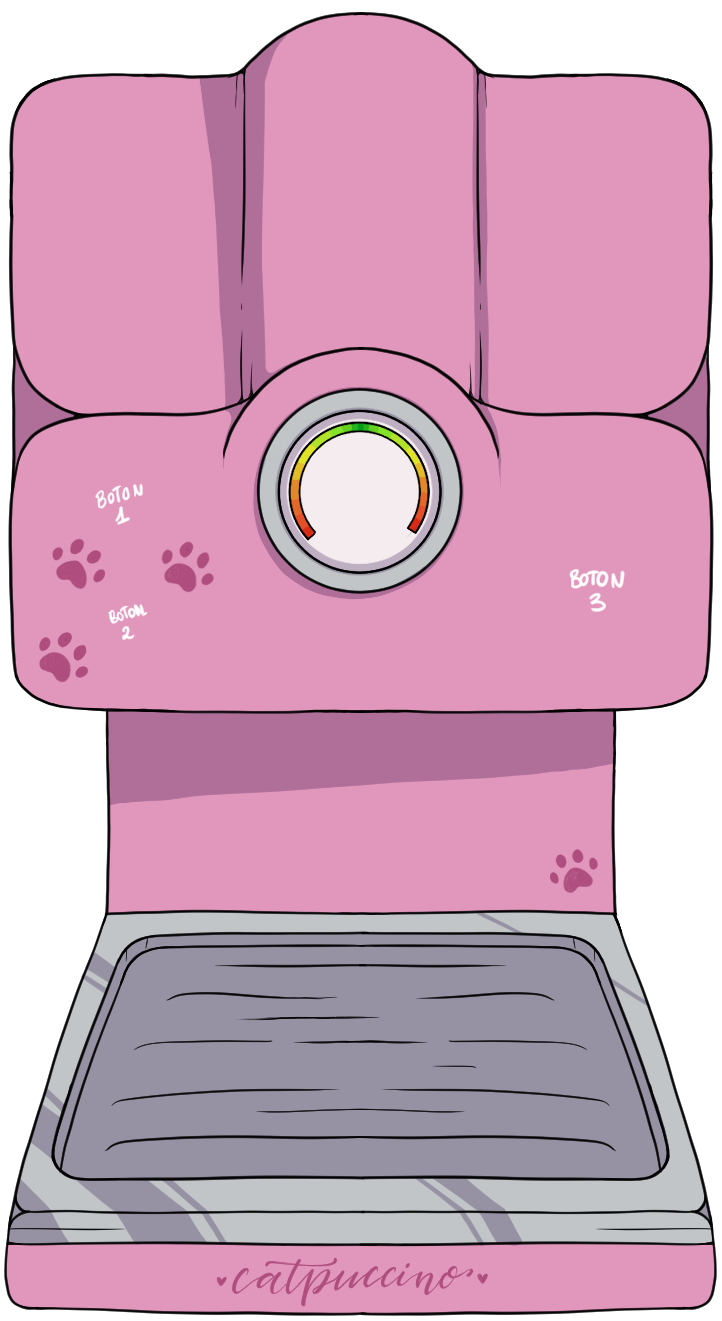
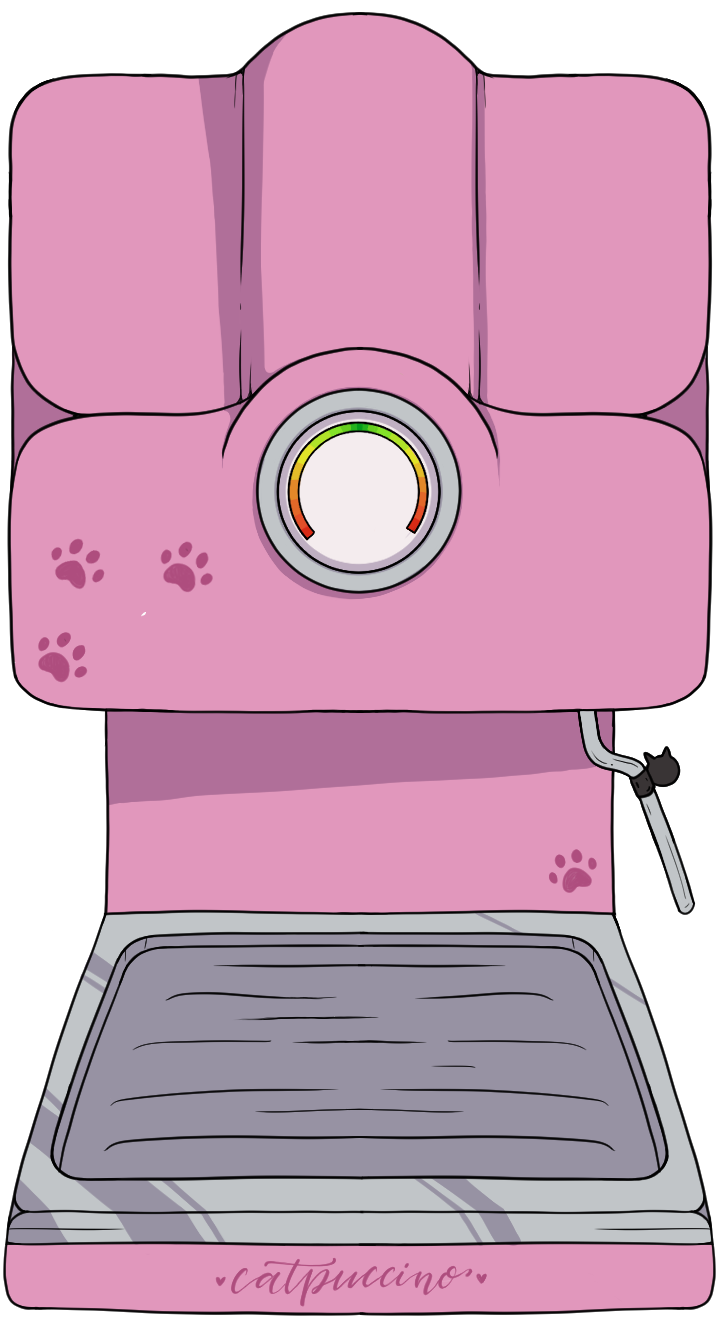
[v1.0.21.4]
Sustituido prop cafetera + arreglo de pequeños bugs

diff --git a/Mango Studio Game/Assets/Scripts/Minigame/MinigameInput.cs b/Mango Studio Game/Assets/Scripts/Minigame/MinigameInput.cs
@@ -461,6 +461,7 @@ public class MinigameInput : MonoBehaviour
             Sprite finalPlateSprite = CheckFinalCupPlate();
             Image taza = Taza.GetComponent<Image>();
             taza.sprite = finalPlateSprite;
+            currentSprite = finalPlateSprite;
 
             PlatoTaza.gameObject.SetActive(false);
 
@@ -479,6 +480,7 @@ public class MinigameInput : MonoBehaviour
             Sprite finalCupSprite = CheckFinalCup();
             Image taza = Taza.GetComponent<Image>();
             taza.sprite = finalCupSprite;
+            currentSprite = finalCupSprite;
 
             PlatoTaza.gameObject.SetActive(true);
             cursorManager.UpdateCursorTaza(false);
